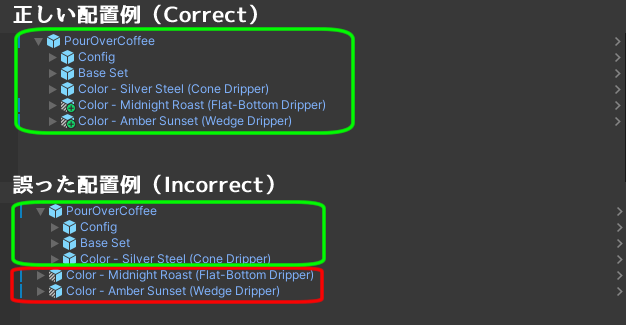
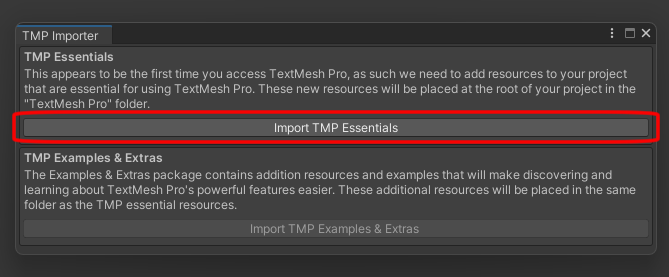
Expand manual with per-gimmick specs and setup screenshots.

diff --git a/index.md b/index.md
@@ -2,11 +2,8 @@
 
 © 2026 Sameno Works(sumisame) All rights reserved.
 
-[Booth Link](https://sameno.booth.pm/items/7656169)
+[Booth Link](https://sameno.booth.pm/items/8447294)
 
-英文での説明は下部にございます。
-
-Please scroll down for the English version. 
 
 ------
 
@@ -43,6 +40,10 @@ https://lilxyzw.booth.pm/items/3087170
 ### 手順 (1)
 Unitypackageファイルをインポート後、「Assets\SamenoLab\VRCPourOverCoffee」にある「DripSet - Quick Start」から、「PourOverCoffee」をSceneに配置します。
 
+※初回インポート時に、「TMP Importer」という画面が出ることがあります。この画面が出た場合は、「Import TMP Essentials」を押してください。（画面が出ない場合は特に操作不要です）
+
+<img src="./source/s0.png" width="800px">
+
 ### 手順(2)
 お好みで「Assets\SamenoLab\VRCPourOverCoffee\DripSet - Quick Start」にある「Color - xxx」フォルダから、
 お好みのスキンのPrefabを、手順(1)で先に設置した「PourOverCoffee」の配下に配置します。
@@ -63,16 +64,27 @@ Unitypackageファイルをインポート後、「Assets\SamenoLab\VRCPourOverC
 **正しい配置例**
 
 PourOverCoffee
+
 ├─ Config
+
 ├─ Base Set
+
 ├─ Color - Silver Steel
+
 │  ├─ Kettle
+
 │  ├─ Dripper
+
 │  └─ ...
+
 ├─ Color - Midnight Roast
+
 │  ├─ Kettle
+
 │  ├─ Dripper
+
 │  └─ ...
+
 └─ Color - Amber Sunset
 
 
@@ -88,7 +100,7 @@ Color - Amber Sunset
 
 このように`PourOverCoffee`の外に配置されたPrefabは、システムから正しく認識されず、設定の反映などが正常に動作しない場合があります。
 
-<img src="./source/s0.png" width="1200px">
+<img src="./source/s1.png" width="800px">
 
 **重要**
 
@@ -109,13 +121,171 @@ Color - Amber Sunset
 非アクティブなオブジェクトは、デフォルトでは「Editor Only」（シーン上では見えるもののワールドにアップロードされない）状態になっています。
 非アクティブなオブジェクトをワールドで使用したい場合は、「Editor Only」から「UnTagged」に変更してアップロードしてください。
 
-<img src="./source/s1.png" width="1200px">
+<img src="./source/s2.png" width="800px">
 
 # ギミックの仕様と設定
+## グラインダー
+### ・基本機能
+グラインダー本体に豆を入れて、ハンドルを回すと豆を挽くことができます。
+グラインダー下部にある透明な容器（ジャー）に豆や粉が入ります。
+ジャーを使って豆を計量し、グラインダーに投入して挽く使い方が可能です。
+ハンドルは、本体をUSEすることで着脱できます。
+グラインダーには最大40gの豆を入れることができます。
 
-各機器個別のマニュアルは現在準備中です。
+### ・高度な機能
+粒度：
+V1.0時点では、グラインダーの粒度は「中挽き (Medium)」で固定となっています。
+粒度はUnity Inspector上の「基本設定 - デフォルト粒度」より設定できます。
+※将来対応として、グラインダーの粒度変更機能のアップデートを予定しています。
 
-基本的な使い方は、アセット内のタブレット端末よりご確認いただけます。
+グラインド量：
+グラインダーのハンドルを回した際に1回転あたりに引くことができる粉量をUnity Inspector上で設定可能です。
+グラインド量が大きいほど、早く豆を挽き終わります。
+初期設定では現実のグラインダーに近いグラインド量となっていますが、イベント利用等で時間短縮が必要な場合は少し大きめの値をお試しください。
+
+音量：
+グラインダーの音量もInspector上で調整可能です。初期値で最大音量（x1）となります。
+音が大きすぎる場合はこの値を小さめに設定してください。
+
+## メジャースプーン
+### ・基本機能
+コーヒー粉や、コーヒー豆をすくって移し替えるスプーンです。USEするとスプーンの中身を排出します。
+スプーン1杯の内容量は「15g」です。
+
+### ・高度な機能
+コーヒー豆の場合のみ、スプーンの傾きに応じてUSE時に排出される豆の重量が変化します。
+水平状態だと1gずつ、傾けるほど排出される量が増加します。
+上下逆さにした状態だと、すべての豆を排出します。
+
+## ケトル
+### ・基本機能
+傾けるとお湯が出ます。ケトルの角度に応じて湯量を細やかに調整可能です。
+現実のドリップケトルに近い感覚でお湯を注ぐことができます。
+デスクトップ向けの補助機能として、USEすると固定量のお湯が出力されます。
+VR操作でも、一定の湯量をキープすることが難しい場合はUSEでの注湯をお試しください。
+
+### ・高度な機能
+ケトルの持ち手の下にお湯の温度が表示されています。
+温度表示部にインタラクトすると、水温調整ボタン（＋ボタン、－ボタン）が表示されます。
+水温は、60℃～100℃の間で設定可能です。
+デフォルトの水温は、Unity Inspector上の「基本設定 - Water Temperature」より設定できます（デフォルト値：90℃）。
+
+## ドリッパー
+**⚠注意事項**
+ドリッパーにお湯を入れるプレイヤーは1人を想定しています。
+ドリップ中は、ドリップを開始したプレイヤー以外はお湯を入れることができません。
+ドリップの判定は、75秒以上お湯を注がないとタイムアウトとなり、ドリップ終了判定となります。
+
+### ・基本機能
+ドリッパーは、マグカップまたはガラスサーバーに乗せて使用します。
+フィルターとコーヒー粉をセットすると、お湯を注ぐことができます。
+ドリッパーの形状は3種類あります。各形状にあったペーパーフィルターを近づけると、ドリッパーにセットできます。
+ドリッパーの操作方法はすべて同じです。お好みのデザインのドリッパーでお楽しみください。
+
+- 円錐ドリッパー（Cone）
+- 台形ドリッパー（Wedge）
+- 平底ドリッパー（Flat）
+
+### ・高度な機能
+本ギミックのドリッパーは、内部情報としてドリップ時の情報（温度、粉量、水量、ドリップ時間）を取得しています。
+ドリップ開始の判定は、ケトルから最初のお湯が注がれた瞬間です。
+ドリップ終了の判定は、ドリッパーをピックアップした瞬間となります。
+お湯の温度情報は、一番最初に注いだお湯の温度が記録されます。
+ドリップ時間と水量は、お湯を入れるたびに記録されます（最大7回分のログを取得します）。
+
+## ペーパーフィルター
+### ・基本機能
+円錐ドリッパー、台形ドリッパー、平面ドリッパー向けのペーパーフィルターがあります。
+円錐ドリッパーと台形ドリッパーは、フィルターの端を折り曲げて使用します。USEすると折り曲げることができます。
+ドリッパーにセットした後、お湯を注ぐことでフィルターを湿らせる（リンスする）ことができます。
+
+### ・高度な機能
+フィルターホルダーから取り出せるフィルターの枚数は最大5枚となります。
+リセットボタンを押すと、取り出されたフィルターを回収します。
+フィルターホルダーから取り出せるフィルターの枚数を変更する場合は以下の手順をお試しください。
+
+- FilterHolder_XXXのInspectorより、VRC Object PoolのPool数を任意の数に変更
+- FilterHolder_XXX直下のPaperFilter_xxxオブジェクトを任意の数だけ複製
+- FilterHolder_XXXのVRC Object Poolスロットに新規複製したPaperFilter_xxxオブジェクトをセット
+
+## ガラスサーバー
+### ・基本機能
+ガラスサーバーの上にドリッパーを乗せてドリップすると、抽出されたコーヒーをサーブすることができます。
+サーブされたコーヒーは、USEすることで排出されます。
+コーヒーはカップやマグカップに注ぐことができます。
+
+
+## デジタルスケール
+**⚠注意事項**
+デジタルスケールの計測可能範囲は、利便性を優先して見た目より少し広く判定を取得しています。
+デジタルスケールを複製して設置する際は、十分に距離を離して設置してください（0.3 m程度目安）。
+近づきすぎると正しく重量測定ができなくなる可能性があります。
+
+### ・基本機能
+デジタルスケールは、ドリップの補助情報として「重量計」「タイマー」「抽出比率」を表示します。
+デジタルスケールを使用しなくてもドリップは可能です。
+
+### ・バリスタ名
+デジタルスケールを使用しているプレイヤー名が表示されます。
+もし自分以外のプレイヤー名が表示されている場合は、リセットボタンを押すことで手動でプレイヤー名をセットできます。
+
+### ・重量計
+デジタルスケールの上にあるオブジェクトの重量を表示します。
+リセットボタンを押すと、重量をゼロリセットします。
+デジタルスケールに反応するオブジェクトは、「ドリッパー」、「ガラスサーバー」、「マグカップ」、「グラインダー」の4種類です。それ以外のオブジェクトは反応しません。
+重量計が測定できるオブジェクト数は最大で10個までとなります。デジタルスケール周辺に物を置きすぎないようにご注意ください。
+
+### ・タイマー
+ドリップが開始されると、自動的にタイマーがスタートします。
+タイマー開始の判定は、ドリッパーにお湯が注がれた瞬間、タイマー停止の判定は、ドリッパーをピックアップした瞬間となります。
+タイマーの表示はリセットボタンを押すと初期化されます。
+
+### ・Brew Ratio（抽出比率）※上級者向け
+本項目は、バリスタ名に表示されているプレイヤーのみローカル表示されます。
+ドリッパーに入れたコーヒーの粉の重量を1としたときの、お湯の重量の比率がリアルタイムで出力されます。
+コーヒーの抽出比率は1：15前後が一般的です。
+この場合、粉の重量の15倍のお湯を入れる意となります。
+
+
+## コーヒーカップ
+### ・基本機能
+ガラスサーバーにサーブしたコーヒーをカップに注ぐと、ドリップしたコーヒーを入れて飲むことができます。
+カップはソーサーに触れると追従するようになります。
+カップとソーサーが分かれているときに、ソーサーをUSEするとカップがソーサーの位置に戻ってきます。
+カップにコーヒーが入った状態で、空のコーヒーカードを近づけると、淹れられたコーヒーの情報を見ることができます。
+
+
+## マグカップ
+### ・基本機能
+カップと同様に、ガラスサーバーにサーブしたコーヒーをマグカップに注ぐと飲むことができます。
+マグカップの場合は、ドリッパーを直接マグカップに乗せてドリップすることができます。
+マグカップにコーヒーが入った状態で、空のコーヒーカードを近づけると、淹れられたコーヒーの情報を見ることができます。
+
+
+## キャニスター（豆、粉）
+### ・基本機能
+黒色のキャニスターにはコーヒー豆が、銀色のキャニスターにはコーヒー粉が入っています。
+コーヒーカードをキャニスターに近づけると、入っているコーヒーの情報と、推奨レシピがカードに印字されます。
+
+### ・高度な機能
+キャニスターに入れるコーヒー豆情報の登録方法は以下の通りです。
+（マニュアルは現在準備中です。）
+
+
+## コーヒーカード
+### ・基本機能
+空のコーヒーカードは、コーヒー情報をスキャンして表示する機能があります。
+カップに淹れられたコーヒーと、豆や粉が入ったキャニスターにカードを近づけると、そのコーヒー豆の情報をカードに印字します。
+裏面には、豆・粉の場合は推奨レシピが、カップに入ったコーヒーの場合は抽出ログが表示されます。
+
+上記のスキャンモード以外に、ワールドアップロード時にコーヒー情報を固定表示するモードがあります。
+キャニスターのそばに固定表示モードのカードを置くことで、その豆の情報を来訪者に伝えることができます。
+
+### ・高度な機能
+固定表示モードで印字するコーヒー豆情報の登録方法は以下の通りです。
+（マニュアルは現在準備中です。）
+
+
 
 # お問い合わせ
 
@@ -125,56 +295,3 @@ https://sameno.booth.pm/
 
 本商品を使用した作品のシェアは、ハッシュタグ「#さめのワークス」をご活用ください！  
 
-
----
-
-# English Version  
-
-English text translated using DeepL.
-
-# Preparation in advance
-
-Please have a Unity 2022.3.22f1 project when using this package.
-
-It is not compatible with Unity 2019.
-
-Please make sure to use VRCSDK 3.10.0 or later for this asset.
-
-This product uses UdonSharp (U#).  
-
-Please create a Unity project from Worlds U# in VCC (VRChat Creator Companion), and import this product.  
-
-Other than VCC Worlds U# projects are not covered by support.  
-
-## Sharder  
-
-This asset uses liltoon and **lilPBR** shaders. 
-
-Before installing this asset, please import the latest versions of both liltoon and **lilPBR** into your project via the URL below or through VCC. 
-
-https://lilxyzw.booth.pm/items/3087170
-
-# Setup
-
-## Introduction  
-
-After importing the Unitypackage file, place the prefab named “SamenoLatteArtSet” located in Assets/SamenoLab/VRCLatteArt anywhere in your scene.This completes the setup.
-
-## Duplicating Objects
-
-Objects directly under “SamenoLatteArtSet” can be duplicated by pressing “ctrl+D”.
-No special settings are required after duplication in Unity.
-
-# Gimmick Specifications
-
-Individual manuals for each device are currently under preparation.
-
-Basic usage instructions can be found on the tablet device included in the asset.
-
-# Contact
-
-If you have any questions about problems or concerns, please contact Booth Messages.  
-
-https://sameno.booth.pm/
-
-To share your work using this product, please use the hashtag #SamenoWorks !
